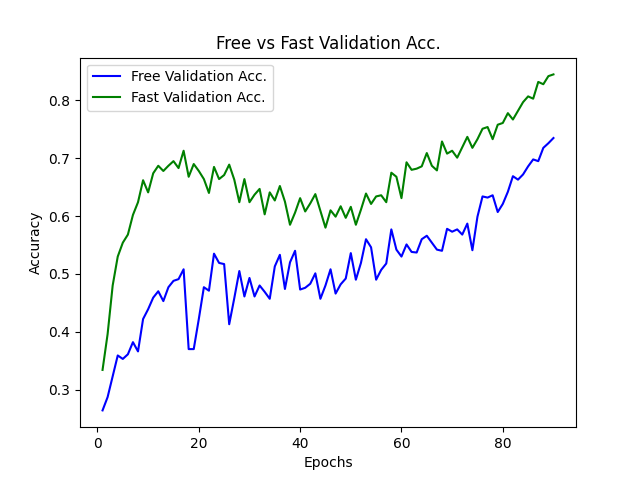
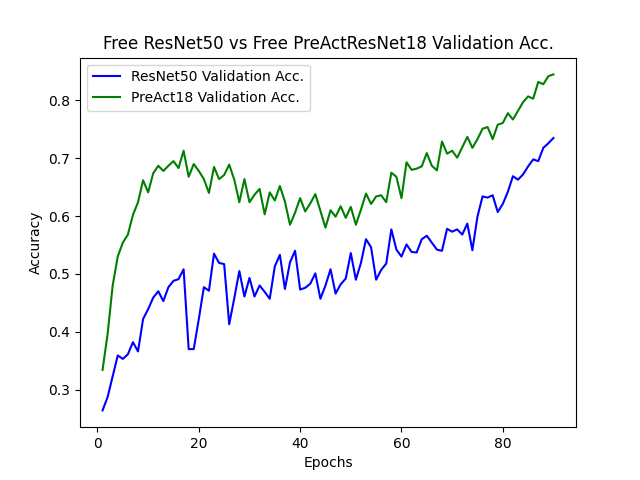
fix images

Changed region(s): [[0.1562, 0.0625, 0.8438, 0.2188]]

diff --git a/CURRENT/fast_adversarial/CIFAR10/plot2.py b/CURRENT/fast_adversarial/CIFAR10/plot2.py
@@ -21,7 +21,7 @@ last_epoch = ""
 
 
 
-PATH1 = "output/new_train_fast_output_ResNet50_128_a10_e90"
+PATH1 = "output/new_train_free_output_ResNet50_m8_e90"
 FILENAME1 = PATH1 + "/log.txt"
 
 PATH2 = "output/new_train_free_output_PreActResNet18_m8_e90"
